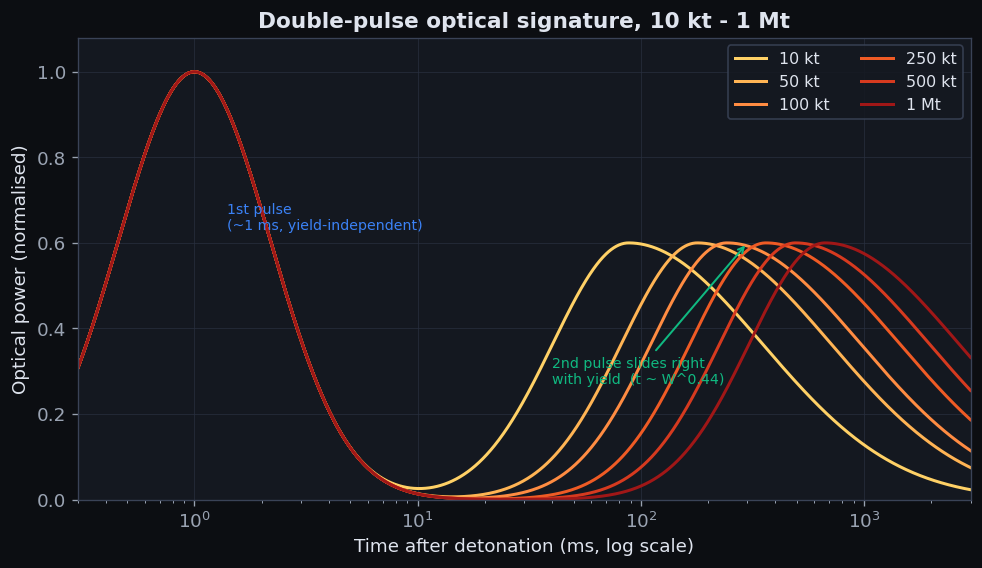
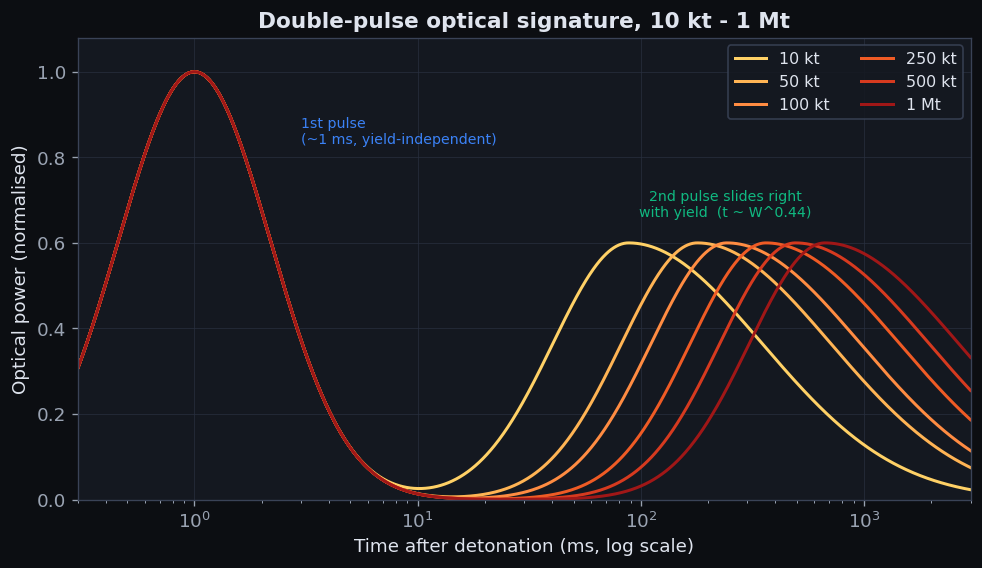
Updated figures

diff --git a/assets/src/generate_figures.py b/assets/src/generate_figures.py
@@ -223,12 +223,10 @@ def fig_double_pulse_overlay(fig):
     ax.set_title("Double-pulse optical signature, 10 kt - 1 Mt")
     ax.legend(ncol=2, loc="upper right")
     ax.annotate("1st pulse\n(~1 ms, yield-independent)", xy=(1.0, 1.0),
-                xytext=(1.4, 0.66), fontsize=8.5, color=C_TMIN,
+                xytext=(3.0, 0.86), fontsize=8.5, color=C_TMIN,
                 ha="left", va="center")
-    ax.annotate("2nd pulse slides right\nwith yield  (t ~ W^0.44)",
-                xy=(300, 0.6), xytext=(40, 0.30), fontsize=8.5, color=C_TINTER,
-                ha="left", va="center",
-                arrowprops=dict(arrowstyle="->", color=C_TINTER, lw=1.2))
+    ax.text(240, 0.69, "2nd pulse slides right\nwith yield  (t ~ W^0.44)",
+            fontsize=8.5, color=C_TINTER, ha="center", va="center")
 
 
 # --------------------------------------------------------------------------- #
@@ -409,85 +407,189 @@ def fig_vlog_waveforms(fig):
 
 
 # --------------------------------------------------------------------------- #
-# Block diagram - rendered replacement for the README's ASCII signal chain
+# Block diagrams - rendered replacements for the READMEs' ASCII signal chains
 # --------------------------------------------------------------------------- #
-def fig_block_diagram(fig):
-    fig.set_size_inches(11.0, 6.9)
+DG_FE, DG_CMP, DG_ADC = "#f59e0b", "#3b82f6", "#10b981"   # front-end / comparator / ADC
+DG_FW, DG_USB, DG_NET = "#a855f7", "#3b82f6", "#10b981"   # firmware / USB / network
+
+
+def _diagram_axes(fig, w_in, h_in, xlim, ylim):
+    """Borderless equal-aspect axes + themed box/arrow drawing helpers."""
+    fig.set_size_inches(w_in, h_in)
     ax = fig.subplots()
-    ax.set_xlim(0, 16)
-    ax.set_ylim(0, 10)
+    ax.set_xlim(*xlim)
+    ax.set_ylim(*ylim)
     ax.set_aspect("equal")
     ax.axis("off")
-
     dark = to_hex(plt.rcParams["figure.facecolor"]) == to_hex(
         THEMES["dark"]["figure.facecolor"])
-    face = "#1d2430" if dark else "#f3f5fa"
-    txt = "#e8ecf4" if dark else "#1b1f27"
-    line = "#7a8596" if dark else "#98a0ac"
+    C = {"face": "#1d2430" if dark else "#f3f5fa",
+         "txt": "#e8ecf4" if dark else "#1b1f27",
+         "line": "#7a8596" if dark else "#98a0ac"}
 
-    A_FE, A_CMP, A_ADC = "#f59e0b", "#3b82f6", "#10b981"
-    A_FW, A_USB, A_NET = "#a855f7", "#3b82f6", "#10b981"
-
-    def box(cx, cy, w, h, title, sub, accent, big=False):
+    def box(cx, cy, w, h, title, sub=None, accent="#888888", big=False,
+            lines=None):
         ax.add_patch(FancyBboxPatch(
             (cx - w / 2, cy - h / 2), w, h,
             boxstyle="round,pad=0,rounding_size=0.16", linewidth=1.7,
-            edgecolor=accent, facecolor=face, zorder=3))
-        if sub:
+            edgecolor=accent, facecolor=C["face"], zorder=3))
+        if lines is not None:                       # title + stacked content lines
+            ax.text(cx, cy + h / 2 - 0.34, title, ha="center", va="center",
+                    color=accent, fontsize=11, fontweight="bold", zorder=4)
+            y = cy + h / 2 - 0.82
+            for ln in lines:
+                ax.text(cx, y, ln, ha="center", va="center", color=C["txt"],
+                        fontsize=8.6, zorder=4)
+                y -= 0.46
+        elif sub:                                   # title + one subtitle
             dyt, dys = (0.27, 0.31) if big else (0.21, 0.25)
             ax.text(cx, cy + dyt, title, ha="center", va="center",
                     color=accent, fontsize=12 if big else 10.5,
                     fontweight="bold", zorder=4)
             ax.text(cx, cy - dys, sub, ha="center", va="center",
-                    color=txt, fontsize=8.4, zorder=4)
-        else:
+                    color=C["txt"], fontsize=8.4, zorder=4)
+        else:                                       # title only
             ax.text(cx, cy, title, ha="center", va="center", color=accent,
-                    fontsize=10.5, fontweight="bold", zorder=4)
+                    fontsize=12 if big else 10.5, fontweight="bold", zorder=4)
 
-    def arrow(pts, color=None):
-        color = color or line
+    def arrow(pts, color=None, ls="-"):
+        color = color or C["line"]
         if len(pts) > 2:
             ax.plot([p[0] for p in pts], [p[1] for p in pts], color=color,
-                    lw=1.7, zorder=2, solid_capstyle="round",
+                    lw=1.7, ls=ls, zorder=2, solid_capstyle="round",
                     solid_joinstyle="round")
         ax.add_patch(FancyArrowPatch(
             pts[-2], pts[-1], arrowstyle="-|>", mutation_scale=15, lw=1.7,
-            color=color, shrinkA=0, shrinkB=3, zorder=2))
+            color=color, linestyle=ls, shrinkA=0, shrinkB=3, zorder=2))
 
-    # Boxes ---------------------------------------------------------------- #
-    box(2.1, 8.7, 2.0, 1.1, "VEMD2704", "photodiode", A_FE)
-    box(4.9, 8.7, 2.0, 1.1, "AD8304", "log amp", A_FE)
+    return ax, box, arrow, C
+
+
+def fig_block_diagram(fig):
+    """Top-level README: photons -> front-end -> firmware -> companion / GitHub."""
+    ax, box, arrow, C = _diagram_axes(fig, 11.0, 6.9, (0, 16), (0, 10))
+    box(2.1, 8.7, 2.0, 1.1, "VEMD2704", "photodiode", DG_FE)
+    box(4.9, 8.7, 2.0, 1.1, "AD8304", "log amp", DG_FE)
     box(11.3, 8.7, 4.6, 1.1, "LT1711 comparator",
-        "leading-edge timing · sub-µs", A_CMP)
-    box(9.3, 6.9, 4.6, 1.1, "AD7091R ADC", "SPI · waveform shape", A_ADC)
+        "leading-edge timing · sub-µs", DG_CMP)
+    box(9.3, 6.9, 4.6, 1.1, "AD7091R ADC", "SPI · waveform shape", DG_ADC)
     box(9.5, 5.3, 9.2, 1.4, "RP2350 · Pico 2 W firmware",
-        "detection state machine · yield maths · BIST", A_FW, big=True)
+        "detection state machine · yield maths · BIST", DG_FW, big=True)
     box(5.0, 2.5, 5.4, 1.3, "Companion app",
-        "USB serial · drive · watch · configure", A_USB)
+        "USB serial · drive · watch · configure", DG_USB)
     box(12.5, 2.5, 5.4, 1.3, "GitHub JSON",
-        "WiFi / HTTPS · one record per event", A_NET)
-
-    # Branch junction dot on the AD8304 output.
-    ax.plot([6.4], [8.7], "o", color=line, ms=5, zorder=4)
-
-    # Arrows --------------------------------------------------------------- #
-    arrow([(0.45, 8.7), (1.1, 8.7)], A_FE)            # light in
-    ax.text(0.05, 9.08, "light", color=A_FE, fontsize=9, ha="left",
+        "WiFi / HTTPS · one record per event", DG_NET)
+    ax.plot([6.4], [8.7], "o", color=C["line"], ms=5, zorder=4)
+    arrow([(0.45, 8.7), (1.1, 8.7)], DG_FE)
+    ax.text(0.05, 9.08, "light", color=DG_FE, fontsize=9, ha="left",
             va="center", fontweight="bold")
-    arrow([(3.1, 8.7), (3.9, 8.7)])                   # photodiode -> log amp
-    arrow([(5.9, 8.7), (9.0, 8.7)])                   # log amp -> comparator
-    arrow([(6.4, 8.7), (6.4, 6.9), (7.0, 6.9)])       # branch -> ADC
-    arrow([(13.3, 8.15), (13.3, 6.0)])                # comparator -> firmware
-    arrow([(9.3, 6.35), (9.3, 6.0)])                  # ADC -> firmware (centred)
-    arrow([(5.0, 4.6), (5.0, 3.15)])                  # -> companion (straight)
-    arrow([(12.5, 4.6), (12.5, 3.15)])                # -> GitHub (straight)
-
+    arrow([(3.1, 8.7), (3.9, 8.7)])
+    arrow([(5.9, 8.7), (9.0, 8.7)])
+    arrow([(6.4, 8.7), (6.4, 6.9), (7.0, 6.9)])
+    arrow([(13.3, 8.15), (13.3, 6.0)])
+    arrow([(9.3, 6.35), (9.3, 6.0)])
+    arrow([(5.0, 4.6), (5.0, 3.15)])
+    arrow([(12.5, 4.6), (12.5, 3.15)])
     ax.set_title("Signal chain — photons in, published yield out",
-                 color=txt, fontsize=13, fontweight="bold", pad=10)
+                 color=C["txt"], fontsize=13, fontweight="bold", pad=10)
+
+
+def fig_code_dataflow(fig):
+    """code/README.md: front-end -> firmware -> companion (USB) / GitHub (WiFi)."""
+    ax, box, arrow, C = _diagram_axes(fig, 10.5, 6.0, (0, 16), (0, 9))
+    box(3.4, 6.6, 4.2, 1.3, "Sensor + comparator",
+        "photodiode · edge + shape", DG_FE)
+    box(10.7, 6.6, 6.2, 1.5, "optical_bhang firmware",
+        "RP2350 · Pico 2 W — detect · yield · BIST", DG_FW, big=True)
+    box(4.3, 2.0, 5.8, 1.5, "bhang_companion",
+        "USB serial · drive · watch · plot", DG_USB)
+    box(11.9, 2.0, 6.2, 1.5, "GitHub-hosted JSON",
+        "WiFi / HTTPS · one record per event", DG_NET)
+    arrow([(0.5, 6.6), (1.3, 6.6)], DG_FE)
+    ax.text(0.1, 7.05, "light", color=DG_FE, fontsize=9, ha="left",
+            va="center", fontweight="bold")
+    arrow([(5.5, 6.6), (7.6, 6.6)])
+    arrow([(8.9, 5.85), (8.9, 4.7), (4.3, 4.7), (4.3, 2.75)])
+    arrow([(12.5, 5.85), (12.5, 4.7), (11.9, 4.7), (11.9, 2.75)])
+    ax.set_title("Software & data flow — on-device detection to published record",
+                 color=C["txt"], fontsize=12.5, fontweight="bold", pad=10)
+
+
+def fig_pcb_boards(fig):
+    """PCB/README.md: the two stacked boards joined by the module connector."""
+    ax, box, arrow, C = _diagram_axes(fig, 9.6, 6.6, (0, 16), (0, 11))
+    box(8.0, 8.0, 13.0, 2.4, "BHG-3000 · sensor head   (20.1 × 12.5 mm)",
+        accent=DG_FE,
+        lines=["VEMD2704 photodiode  →  AD8304 log amp  →  VOUT",
+               "+ white HSMW-C191 BIST LED for self-test"])
+    box(8.0, 2.6, 13.0, 2.4, "bhangmeterv3 · carrier board   (80 × 40 mm)",
+        accent=DG_CMP,
+        lines=["LT1711 comparator → edge timing    ·    AD7091R SPI ADC → waveform",
+               "Raspberry Pi Pico 2 W  ·  status LEDs  ·  USB"])
+    arrow([(8.0, 10.5), (8.0, 9.2)], DG_FE)
+    ax.text(8.0, 10.7, "incoming light", color=DG_FE, fontsize=9,
+            ha="center", va="bottom", fontweight="bold")
+    arrow([(8.0, 6.8), (8.0, 3.8)])
+    for yy in (5.55, 5.05):
+        ax.plot([7.3, 8.7], [yy, yy], color=C["line"], lw=2.2, zorder=4,
+                solid_capstyle="round")
+    ax.text(9.1, 5.3, "Mill-Max 800-series\nboard-to-board connector",
+            color=C["txt"], fontsize=8.4, ha="left", va="center")
+    ax.set_title("Two boards — optical sensor head over the carrier",
+                 color=C["txt"], fontsize=12.5, fontweight="bold", pad=10)
+
+
+def fig_sensorhead(fig):
+    """PCB/BHG-3000/README.md: log-amp chain + BIST LED that lights the diode."""
+    ax, box, arrow, C = _diagram_axes(fig, 11.0, 5.6, (0, 16), (0, 8))
+    box(3.0, 6.0, 3.0, 1.1, "VEMD2704", "photodiode", DG_FE)
+    box(7.2, 6.0, 3.0, 1.1, "AD8304", "log amp", DG_FE)
+    box(12.3, 6.0, 4.2, 1.1, "VOUT → carrier", "(bhangmeterv3)", DG_CMP)
+    box(3.0, 2.3, 3.4, 1.0, "HSMW-C191", "white BIST LED", DG_FE)
+    box(7.5, 2.3, 2.8, 1.0, "BSS138", "LED driver", DG_ADC)
+    arrow([(0.4, 6.0), (1.5, 6.0)], DG_FE)
+    ax.text(0.1, 6.45, "light", color=DG_FE, fontsize=9, ha="left",
+            va="center", fontweight="bold")
+    arrow([(4.5, 6.0), (5.7, 6.0)])
+    arrow([(8.7, 6.0), (10.2, 6.0)])
+    arrow([(10.5, 2.3), (8.9, 2.3)])
+    ax.text(10.7, 2.3, "BIST_EN\n(from carrier)", color=C["txt"], fontsize=8,
+            ha="left", va="center")
+    arrow([(6.1, 2.3), (4.7, 2.3)])
+    arrow([(3.0, 2.8), (3.0, 5.45)], DG_FE, ls=(0, (4, 3)))
+    ax.text(3.45, 4.05, "illuminates\nphotodiode", color=DG_FE, fontsize=8,
+            ha="left", va="center")
+    ax.set_title("Sensor head — log-amp front-end + BIST self-test",
+                 color=C["txt"], fontsize=12.5, fontweight="bold", pad=10)
+
+
+def fig_carrier(fig):
+    """PCB/bhangmeterv3/README.md: socket -> buffers -> comparator/ADC -> Pico."""
+    ax, box, arrow, C = _diagram_axes(fig, 11.0, 6.4, (0, 16), (0, 9.5))
+    box(1.9, 7.6, 2.8, 1.1, "sensor head", "BHG-3000", DG_FE)
+    box(5.3, 7.6, 2.6, 1.1, "U1 · HSN-1000", "module socket", DG_FE)
+    box(8.3, 7.6, 2.4, 1.1, "buffers", "SN74LXC1T14", DG_CMP)
+    box(13.0, 7.6, 4.8, 1.0, "LT1711 comparator", "leading-edge timing", DG_CMP)
+    box(11.0, 5.6, 4.8, 1.0, "AD7091R ADC", "SPI · waveform shape", DG_ADC)
+    box(9.0, 2.5, 11.0, 1.5, "Raspberry Pi Pico 2 W",
+        "P2 / P3 sockets · firmware: detect · yield · BIST", DG_FW, big=True)
+    arrow([(3.3, 7.6), (4.0, 7.6)])
+    arrow([(6.6, 7.6), (7.1, 7.6)])
+    arrow([(9.5, 7.6), (10.6, 7.6)])
+    ax.plot([9.95], [7.6], "o", color=C["line"], ms=5, zorder=4)
+    arrow([(9.95, 7.6), (9.95, 6.1)])
+    arrow([(14.2, 7.1), (14.2, 3.25)])
+    arrow([(11.0, 5.1), (11.0, 3.25)])
+    ax.set_title("Carrier read-out chain — edge + shape into the Pico",
+                 color=C["txt"], fontsize=12.5, fontweight="bold", pad=10)
 
 
 FIGURES = {
     "block-diagram": fig_block_diagram,
+    "code-dataflow": fig_code_dataflow,
+    "pcb-boards": fig_pcb_boards,
+    "sensorhead": fig_sensorhead,
+    "carrier": fig_carrier,
     "double-pulse-overlay": fig_double_pulse_overlay,
     "double-pulse-annotated": fig_double_pulse_annotated,
     "timing-vs-yield": fig_timing_vs_yield,
